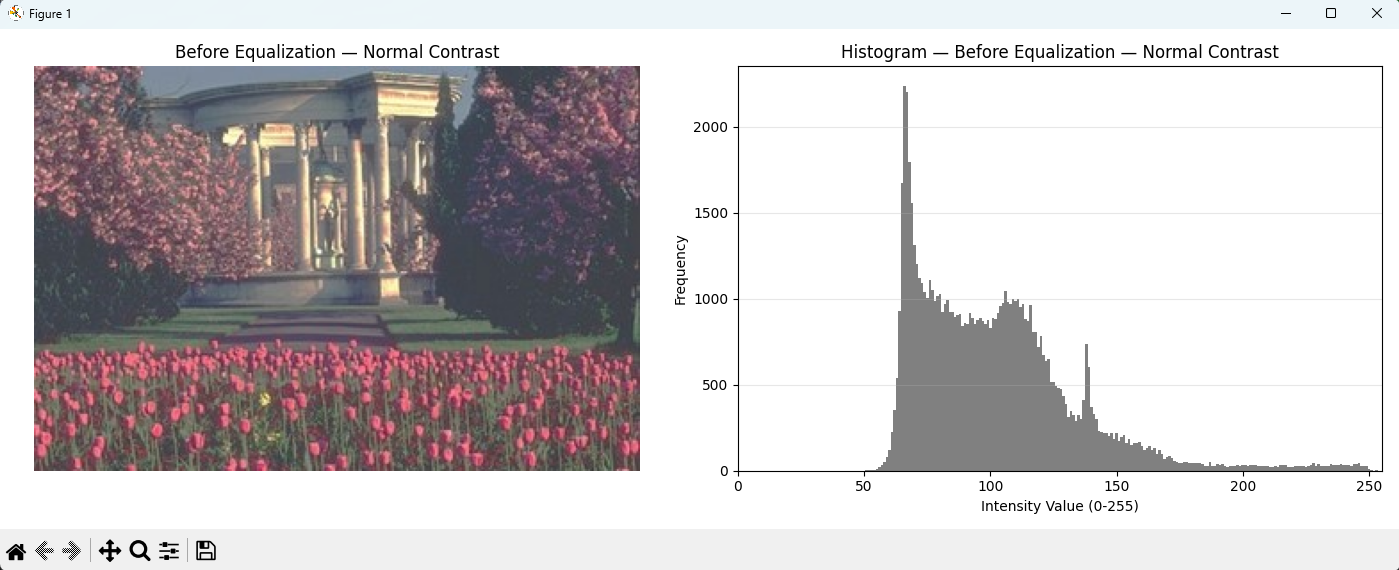
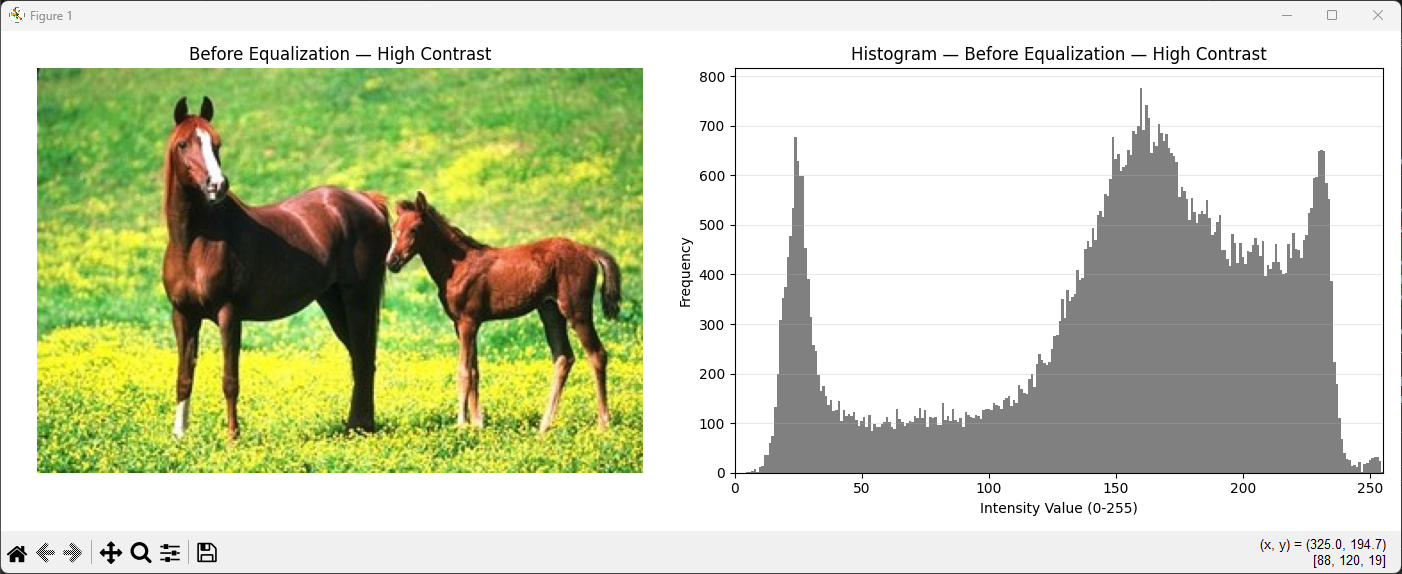
adjust cli, update readme

diff --git a/src/App.py b/src/App.py
@@ -36,7 +36,7 @@ def show_step(pic, hist, title, filename):
 # =============================================================================
 # INTEGRATED PIPELINE (TASK 4)
 # =============================================================================
-def run_analysis_pipeline(pic_path, category, is_last=False):
+def run_analysis_pipeline(pic_path, category):
     """
     Orchestrates the full image processing workflow for a single image.
     """
@@ -85,22 +85,44 @@ def run_analysis_pipeline(pic_path, category, is_last=False):
 # MAIN
 # =============================================================================
 if __name__ == "__main__":
-    test_categories = ["Low Contrast", "Normal Contrast", "High Contrast"]
+    CATEGORIES = {
+        "1": "Low Contrast",
+        "2": "Normal Contrast",
+        "3": "High Contrast",
+    }
+
+    def print_menu():
+        print("\n1. Low Contrast")
+        print("2. Normal Contrast")
+        print("3. High Contrast")
+        print("0. Exit\n")
 
     print("=" * 55)
     print("  Histogram Analysis & Contrast Enhancement")
     print("=" * 55)
-    print("You will be prompted to select 3 images (Low / Normal / High contrast).")
-    print(f"Outputs will be saved to: {OUTPUT_DIR}")
+    print("Outputs saved to: /output")
+    print_menu()
 
-    for index, category in enumerate(test_categories):
-        print(f"\n>>> [{category}] Press ENTER to open file picker...")
-        input()
-        image_path = pickAFile()
+    while True:
+        cmd = input(">>> ").strip()
+
+        if cmd == "0":
+            print("\nTask complete.")
+            break
+
+        if cmd not in CATEGORIES:
+            print("  Invalid input.")
+            continue
+
+        category = CATEGORIES[cmd]
+        try:
+            image_path = pickAFile()
+        except Exception:
+            image_path = None
+
         if image_path:
-            is_last = index == len(test_categories) - 1
-            run_analysis_pipeline(image_path, category, is_last)
+            run_analysis_pipeline(image_path, category)
         else:
-            print(f"  Selection cancelled for '{category}'. Skipping.")
+            print("  No file selected.")
 
-    print("\nTask complete.")
+        print_menu()

diff --git a/README.md b/README.md
@@ -33,13 +33,15 @@ output/                           # Generated images and histogram plots (gitign
 ## Examples
 
 ### Input Images
-| Low Contrast                            | Normal Contrast | High Contrast |
-|-----------------------------------------|---|---|
+| Low Contrast                            | Normal Contrast | High Contrast                             |
+|-----------------------------------------|---|-------------------------------------------|
 | ![Low Contrast](assets/example_low.jpg) | ![Normal Contrast](assets/example_normal.jpg) | ![High Contrast](assets/example_high.jpg) |
 
 ### App in Action
+
 **Console output**
 ![Console](assets/example_console.png)
+
 
 **Before equalization — image + histogram**
 ![Before](assets/example_before.png)
@@ -60,7 +62,14 @@ Run the full pipeline (Tasks 1–4):
 python src/App.py
 ```
 
-You will be prompted 3 times to pick an image — one low contrast, one normal, one high contrast. For each image the app prints a contrast summary to the console, then shows the original image with its histogram, followed by the equalized image with its new histogram. All outputs are saved to the `output/` folder.
+A menu appears with three categories: **1** Low Contrast, **2** Normal Contrast, **3** High Contrast, **0** Exit.
+
+1. Enter a category number.
+2. A file picker opens — select your image.
+3. The app prints a contrast summary to the console (Michelson, RMS, enhancement decision), then opens two windows: the original grayscale image with its histogram, then the equalized image with its new histogram. Close each window to advance.
+4. The menu reappears — repeat for as many images as you like, then enter **0** to exit.
+
+All output images are saved to the `output/` folder locally in the project file.
 
 Each task can also be run independently:
 ```